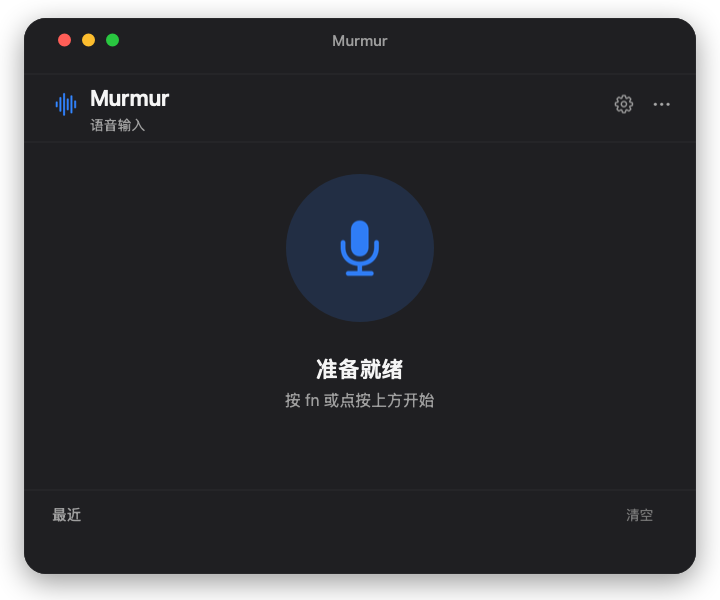
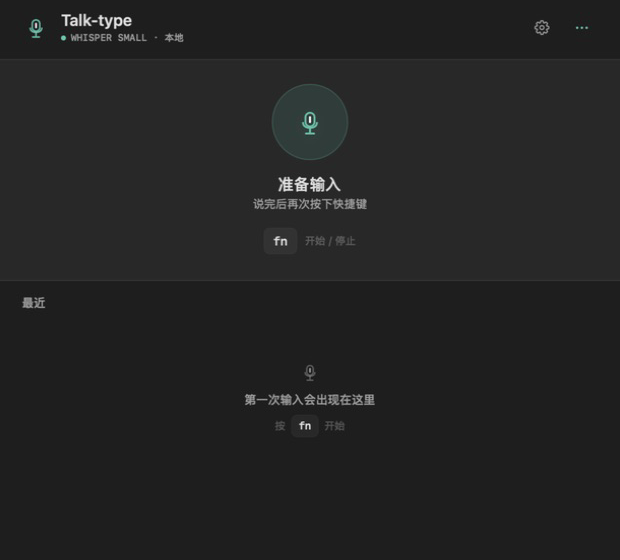
Rewrite README with product story and screenshots

diff --git a/README.md b/README.md
@@ -1,12 +1,12 @@
 <div align="center">
 
-<img src="docs/icon.png" width="128" alt="Talk-type app icon" />
+<img src="docs/icon.png" width="128" alt="Talk-type 图标" />
 
 # Talk-type
 
-**让说话直接成为输入。**
+**按一下，说话，再按一下。文字就落在光标那里。**
 
-Local-first voice typing for macOS. Talk naturally, then let the text appear at your cursor.
+一款给 macOS 用的语音输入工具，中文为主，也认真处理夹在中文里的英文。
 
 ![macOS](https://img.shields.io/badge/macOS-14%2B-111111)
 ![Swift](https://img.shields.io/badge/Swift-5-F05138)
@@ -17,97 +17,116 @@ Local-first voice typing for macOS. Talk naturally, then let the text appear at 
 
 </div>
 
----
+<p align="center">
+  <img src="docs/shot-main.png" width="620" alt="Talk-type 主界面" />
+</p>
 
 ## 中文
 
-### Talk + Type
+### 为什么做 Talk-type
 
-Talk-type 是一款面向 macOS 的本地优先语音输入工具。把光标放在任意输入框，按一下快捷键开始说话，再按一下结束，文字就会被转写、整理并插入当前光标位置。
+我想要的语音输入其实很简单：光标在哪里，话就输入到哪里。它应该像键盘一样随手，而不是先打开一个聊天窗口，再复制一遍结果。
 
-它不是聊天助手。无论你说的是问题、命令、提示词还是代码，Talk-type 都只负责忠实地整理并输入你说过的内容，不回答问题、不执行指令，也不为了“更通顺”而随意删减信息。
+真正用起来，麻烦通常出在两个地方。
 
-### 核心体验
+第一个是中英混合。中文句子里只要出现 `GitHub`、`SwiftUI`、`API` 或一个不常见的产品名，识别结果就很容易跑偏。第二个是文本整理。有些模型看到问句会顺手回答，看到重复会主动删掉，最后得到的文字更“漂亮”，却不是我刚才说的内容。
 
-- **说完即输入**：默认使用 `fn / 🌐` 键开始和停止录音，结果自动插入当前输入框。
-- **中英混合优化**：本地 Whisper Small 负责最终转写，Apple Speech 提供实时预览与自动回退；自定义词库可提示产品名、技术词和英文专名。
-- **理解输入框上下文**：可读取光标附近最多 800 个字符，用于匹配列表、段落、标点、大小写、语气和明确术语。
-- **保守的 AI 整理**：DeepSeek 只做标点、断句、分段、排版和小幅纠错；问题仍然输出为问题，原有信息优先保留。
-- **本地优先**：安装 Whisper Small 后，最终语音转写在 Mac 本地完成；DeepSeek 完全可选。
-- **系统级交互**：支持全局快捷键、菜单栏入口、Dock 主窗口、录音浮层、最近记录和复制兜底。
+Talk-type 就围绕这两个问题做：识别尽量准，整理尽量克制。你说的是问句，它就输入问句；你口述的是命令、提示词或代码，它也只把这些内容放到光标处，不替你执行。
 
-### 识别链路
+名字里的 `T` 同时来自 Talk 和 Type。图标的白色横线是声音，青绿色竖线是输入光标，两部分合在一起才是完整的 T。
 
-| 环节 | 作用 | 是否必需 |
-| --- | --- | --- |
-| Whisper Small | 本地最终转写，优先处理中英混合内容 | 推荐 |
-| Apple Speech | 实时预览；Whisper 不可用时作为最终回退 | 自动使用 |
-| DeepSeek | 结合词库和输入框上下文，保守整理格式与表达 | 可选 |
+### 日常怎么用
+
+把光标放进聊天框、文档、搜索框、代码注释或任何能输入文字的地方：
+
+1. 按一次 `fn / 🌐` 开始录音。
+2. 正常说话，浮层会显示音量、时间和实时预览。
+3. 再按一次停止。
+4. Talk-type 完成最终识别和可选整理，把文字插入当前光标位置。
+
+默认快捷键可以修改。菜单栏入口、主窗口里的麦克风按钮也能开始录音。最近 50 条结果保存在本机，自动粘贴失败时还可以直接复制。
+
+### 它实际做了什么
+
+Talk-type 把“听清楚”和“整理好”拆成了两步。
+
+录音开始后，程序一边把音频写入临时 WAV，一边用 Apple Speech 显示实时预览。停止录音后，如果本机已经装好 Whisper Small，就由 Whisper 完成最终转写；没有安装、执行失败或没有得到结果时，再回退到 Apple Speech。
+
+Whisper 会收到一个很短的提示，其中包含中英词库和光标前文。这样做是为了帮助它认出英文专名，但不会把大量英文词硬塞进提示里，避免普通中文被识别成英文。
+
+如果打开 DeepSeek 整理，转写完成后才会发送文字。它负责补标点、断句、分段、匹配列表格式，以及修正很明确的错字和英文大小写。它不参与录音，也不是语音识别引擎。
+
+整理结果不会直接照单全收。Talk-type 还会做一次本地检查：结果突然变长或变短、数字丢失、把输入框旧内容复制进来，或者把一段中文大面积改成英文，都会被拒绝，最后改用原始转写。
 
 ```text
-快捷键 / 录音按钮
-        ↓
-录制临时 WAV + Apple Speech 实时预览
-        ↓
+按下快捷键
+    ↓
+临时录音 + Apple Speech 实时预览
+    ↓
 Whisper Small 本地最终转写
-        ↓ 不可用时
-Apple Speech 最终回退
-        ↓
-DeepSeek 保守整理（可选）
-        ↓
-插入当前光标位置，并还原原剪贴板
+    ↓ 失败时自动回退
+Apple Speech 最终识别
+    ↓
+DeepSeek 保守整理（可关闭）
+    ↓
+本地完整性检查
+    ↓
+插入光标位置，并还原原来的剪贴板
 ```
 
-### 隐私边界
+### 输入框上下文
 
-- 录音只用于本次转写，临时音频文件会在处理结束后删除。
-- Whisper Small 转写完全在本机进行。
-- Apple Speech 是否使用网络取决于 macOS、语言和设备支持情况。
-- 只有启用 DeepSeek 时，本次转写文本、可选英文辅助结果和光标上下文才会发送给 DeepSeek；音频不会发送给 DeepSeek。
-- DeepSeek API Key 只保存在 macOS 钥匙串中。
-- 光标上下文只用于当前一次输入，可在设置中关闭。
+开启“参考输入框上下文”后，Talk-type 会在录音开始时读取光标附近最多 800 个字符。这个上下文只用来判断：
 
-### 使用方法
+- 当前是在写普通段落、列表还是代码式文本；
+- 应该沿用什么标点、换行、大小写和语气；
+- 某个同音词或英文专名在前文里是怎么写的。
 
-1. 把光标放进任意可编辑文本框。
-2. 按 `fn / 🌐`，或点击 Talk-type 的录音按钮。
-3. 自然说话；浮层会显示音量、状态和实时预览。
-4. 再按一次快捷键停止。
-5. Talk-type 完成转写与可选整理后，将文字插入光标位置。
+它不会把旧内容拼到新结果里，也不会让 DeepSeek 回答或续写输入框里的文字。关闭这个选项后，Talk-type 不会读取光标附近内容。
 
-如果目标 App 不允许自动粘贴，结果仍会保留在剪贴板，可手动按 `⌘V`。
+<p align="center">
+  <img src="docs/shot-settings.png" width="720" alt="Talk-type 识别与整理设置" />
+</p>
 
-### 环境要求
+<p align="center"><sub>识别引擎、实时预览、上下文和文本整理可以分别控制。</sub></p>
 
-- macOS 14 Sonoma 或更高版本
-- Xcode 16 或更高版本（仅构建时需要）
-- 麦克风权限
-- 语音识别权限（Apple Speech 实时预览与回退）
-- 辅助功能权限（全局 `fn` 监听、读取输入框上下文和自动插入）
+### 中英混合词库
 
-### 构建
+设置页里的“中英词库”不是一套只能识别固定单词的词典。它更像一组提示词，用来告诉识别器“这段话里可能出现这些写法”。
 
-当前开发版本位于 `GPT` 分支，`main` 保留为原始稳定线。
+默认包含常见技术词，例如 `DeepSeek`、`ChatGPT`、`Claude`、`OpenAI`、`Swift`、`Xcode`、`GitHub` 和 `Python`。你可以删掉不需要的词，也可以加入自己的项目名、人名、公司名或行业术语。
 
-```bash
-git clone --branch GPT https://github.com/cyx2333hhh/murmur-mac.git
-cd murmur-mac
-open Murmur.xcodeproj
-```
+词库只提供参考，不会把没有说过的词强行插入结果。Whisper 最多取前 24 个词作为短提示，DeepSeek 整理最多参考前 80 个词。
 
-在 Xcode 中选择 `Murmur` target，在 Signing & Capabilities 中设置自己的 Team，然后运行。自动插入其它 App 需要关闭 App Sandbox。
+### 本地识别与 DeepSeek
 
-无签名命令行构建：
+不填 DeepSeek API Key，Talk-type 仍然可以正常录音、识别和输入。两者的分工是：
 
-```bash
-xcodebuild -project Murmur.xcodeproj -target Murmur CODE_SIGNING_ALLOWED=NO build
-```
+- **Whisper Small / Apple Speech**：把声音变成文字。
+- **DeepSeek**：在已有文字上做一次可选的保守整理。
 
-构建产物为 `build/Release/Talk-type.app`。
+本机使用的 Whisper Small 模型约 465 MB。模型装好后，最终转写优先在本地完成；Apple Speech 继续负责实时预览和自动回退。
 
-### 配置 Whisper Small
+### 隐私说明
 
-Talk-type 会在以下位置查找 `whisper-cli`：
+- 临时录音会在本次处理结束后删除。
+- Whisper Small 完全在本机运行。
+- Apple Speech 是否联网由 macOS、语言和设备支持情况决定。
+- DeepSeek 只在你主动开启整理并填写 Key 时收到本次转写、可选英文辅助结果和光标上下文；音频不会发给 DeepSeek。
+- API Key 保存在 macOS 钥匙串，不写入项目文件或 UserDefaults。
+- 最近记录保存在本机，可以随时清空。
+
+### 当前限制
+
+- Whisper Small 需要另外安装 `whisper-cli` 和模型文件，目前没有内置下载器。
+- Apple Speech 的实时预览只是参考，可能和最终 Whisper 结果不同。
+- 全局 `fn`、读取光标上下文和自动粘贴需要辅助功能权限。
+- 某些使用自定义编辑器的 App 不接受模拟粘贴，这种情况下结果会保留在剪贴板。
+- 项目目前以源码形式发布，还没有做面向普通用户的签名安装包和自动更新。
+
+### 安装 Whisper Small
+
+Talk-type 会在下面两个位置查找 `whisper-cli`：
 
 ```text
 /opt/homebrew/bin/whisper-cli
@@ -120,99 +139,74 @@ Talk-type 会在以下位置查找 `whisper-cli`：
 ~/Library/Application Support/Talk-type/Models/ggml-small.bin
 ```
 
-为兼容旧版本，原路径仍然可用：
+旧版本使用过的路径仍然兼容：
 
 ```text
 ~/Library/Application Support/Murmur/Models/ggml-small.bin
 ```
 
-未安装 Whisper 时，Talk-type 会自动使用 Apple Speech 完成最终识别。
-
-### 配置 DeepSeek
-
-DeepSeek 不是语音识别引擎，也不是必需依赖。它只在转写完成后执行一次可选文本整理。
-
-在设置页填入 API Key 并打开智能整理后，可获得：
-
-- 标点、断句和分段
-- 与当前输入框一致的列表与排版
-- 英文专名、大小写和明确错字的小幅纠正
-- 对问题、命令和原始信息的保守保留
-
-留空 API Key 或关闭智能整理，即可只使用本地识别链路。
-
-### 技术结构
-
-- `SwiftUI + AppKit`：菜单栏、主窗口、设置窗口和录音浮层
-- `AVAudioEngine`：单次录音、音量采样和 WAV 写入
-- `Speech`：实时预览与最终回退
-- `whisper.cpp`：Whisper Small 本地最终转写
-- `Accessibility API`：读取当前输入框上下文并插入文字
-- `Keychain Services`：保存 DeepSeek API Key
-- `CoreGraphics`：程序化生成 App 与菜单栏图标
-
----
-
-## English
-
-### Talk + Type
-
-Talk-type is a local-first voice typing utility for macOS. Put the cursor in any editable field, press the hotkey, speak, and press it again. Your speech is transcribed, conservatively cleaned up, and inserted where you were typing.
-
-It is an input tool, not a chatbot. Questions remain questions, commands remain text, and meaningful content is preserved instead of being answered, executed, summarized, or rewritten away.
-
-### Highlights
-
-- **Type by talking** with a global `fn / 🌐` shortcut or the record button.
-- **Mixed Chinese and English** transcription with local Whisper Small, Apple Speech fallback, and a customizable vocabulary.
-- **Cursor-aware formatting** using up to 800 nearby characters to match paragraphs, lists, punctuation, casing, tone, and known terms.
-- **Conservative DeepSeek cleanup** for punctuation, sentence boundaries, layout, and small unambiguous corrections.
-- **Native macOS workflow** with a menu-bar entry, centered main window, Dock presence, recording overlay, recent history, and clipboard fallback.
-- **Privacy-first controls** with local transcription, optional context capture, optional AI cleanup, and Keychain-only API key storage.
-
-### Processing pipeline
-
-| Stage | Purpose | Required |
-| --- | --- | --- |
-| Whisper Small | Local final transcription, preferred for mixed-language speech | Recommended |
-| Apple Speech | Live preview and final fallback | Automatic |
-| DeepSeek | Conservative formatting with vocabulary and cursor context | Optional |
-
-Audio is recorded to a temporary WAV file and deleted after processing. Whisper runs locally. Apple Speech behavior depends on macOS and language support. DeepSeek receives text and optional cursor context only when cleanup is enabled; it never receives the audio.
-
-### Build
-
-Active development is on the `GPT` branch. The `main` branch remains the original stable line.
+### 从源码构建
 
 ```bash
-git clone --branch GPT https://github.com/cyx2333hhh/murmur-mac.git
+git clone https://github.com/cyx2333hhh/murmur-mac.git
 cd murmur-mac
 open Murmur.xcodeproj
 ```
 
-Select the `Murmur` target, choose your own development team, and run. App Sandbox must remain disabled for cross-application insertion.
+在 Xcode 中选择 `Murmur` target，设置自己的 Development Team 后运行。跨 App 读取和插入文字需要保持 App Sandbox 关闭。
 
-Command-line build without signing:
+无签名命令行构建：
 
 ```bash
 xcodebuild -project Murmur.xcodeproj -target Murmur CODE_SIGNING_ALLOWED=NO build
 ```
 
-The built application is `build/Release/Talk-type.app`.
+产物位于 `build/Release/Talk-type.app`。项目会同时构建 Apple Silicon 和 Intel 架构。
 
-### Local Whisper setup
+### 代码结构
 
-Talk-type looks for `whisper-cli` in `/opt/homebrew/bin` or `/usr/local/bin`. Place `ggml-small.bin` at:
+- `AudioCapture.swift`：录音、实时预览和音量数据
+- `LocalWhisperTranscriber.swift`：调用本地 whisper.cpp
+- `DeepSeekClient.swift`：保守文本整理提示和请求
+- `TextInserter.swift`：读取输入框上下文、插入文字并还原剪贴板
+- `AppState.swift`：识别流程、回退策略、结果检查和历史记录
+- `RecordingOverlayView.swift`：录音与处理状态浮层
+- `Murmur-icongen.swift`：生成 App 图标和菜单栏图标
 
-```text
-~/Library/Application Support/Talk-type/Models/ggml-small.bin
+---
+
+## English
+
+Talk-type is a macOS voice typing tool built for one narrow job: put the words you speak at the cursor.
+
+It does not open a chat of its own, answer spoken questions, or execute dictated commands. A question stays a question. A prompt stays a prompt. The app separates transcription from cleanup so formatting can improve without silently changing what was said.
+
+The final transcript prefers local Whisper Small, with Apple Speech used for live preview and fallback. A custom vocabulary helps with English names inside Chinese speech. Optional cursor context can match the surrounding list, punctuation, casing, and terminology.
+
+DeepSeek is optional and runs only after transcription. Its output is checked locally and rejected when it drops numbers, removes too much content, repeats existing cursor context, expands unexpectedly, or turns Chinese into unrelated English. When that happens, Talk-type inserts the raw transcript instead.
+
+### Quick use
+
+1. Put the cursor in any editable field.
+2. Press `fn / 🌐` and speak.
+3. Press it again to stop.
+4. Talk-type transcribes, optionally tidies, and inserts the result.
+
+The app keeps up to 50 recent results locally and leaves a copy on the clipboard when automatic insertion is unavailable.
+
+### Privacy
+
+Temporary audio is deleted after processing. Whisper runs locally. Apple Speech behavior depends on macOS and language support. DeepSeek receives text and optional cursor context only when cleanup is enabled, and never receives the audio. The API key is stored in the macOS Keychain.
+
+### Build
+
+```bash
+git clone https://github.com/cyx2333hhh/murmur-mac.git
+cd murmur-mac
+xcodebuild -project Murmur.xcodeproj -target Murmur CODE_SIGNING_ALLOWED=NO build
 ```
 
-The legacy `~/Library/Application Support/Murmur/Models/ggml-small.bin` path remains supported so existing downloads continue to work.
-
-### DeepSeek setup
-
-DeepSeek is optional and runs only after transcription. Add an API key in Settings to enable conservative punctuation, paragraphing, formatting, casing, and small unambiguous corrections. Leave the key empty, or disable cleanup, to use the recognition pipeline without DeepSeek.
+The resulting app is `build/Release/Talk-type.app`. Select the `Murmur` target and your own Development Team when building in Xcode. App Sandbox must remain disabled for cross-application context reading and insertion.
 
 ---
 